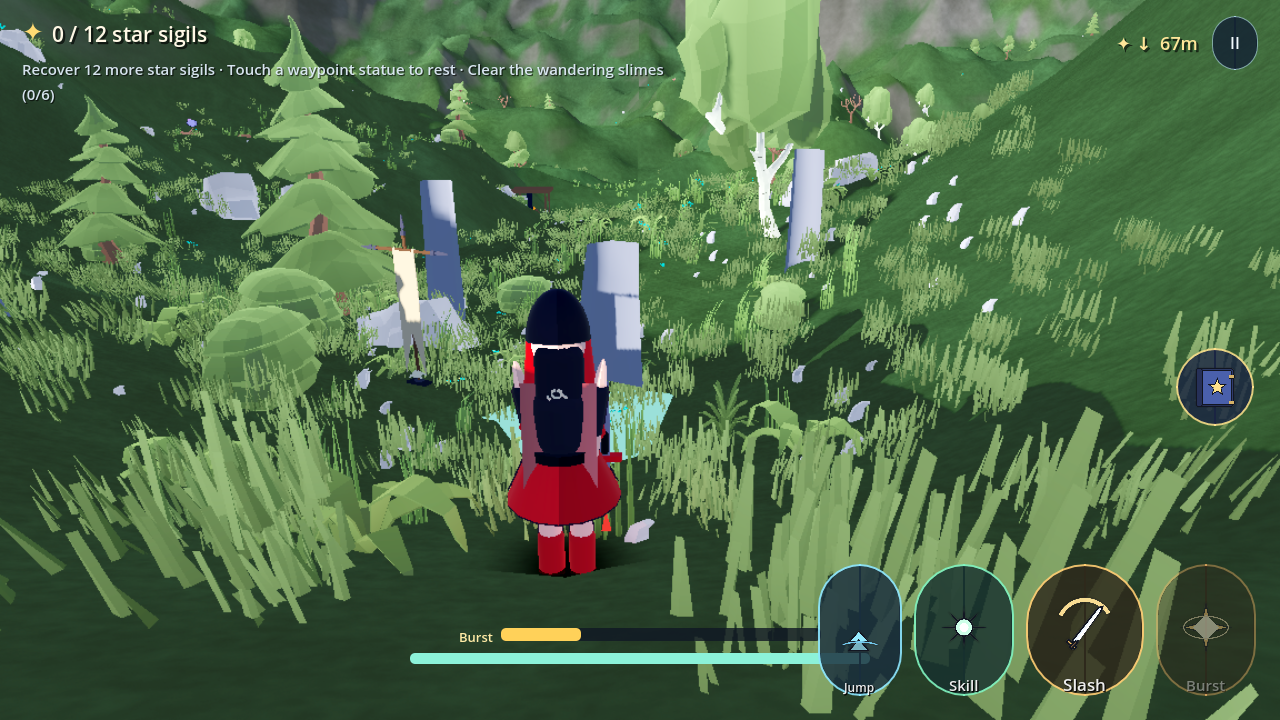
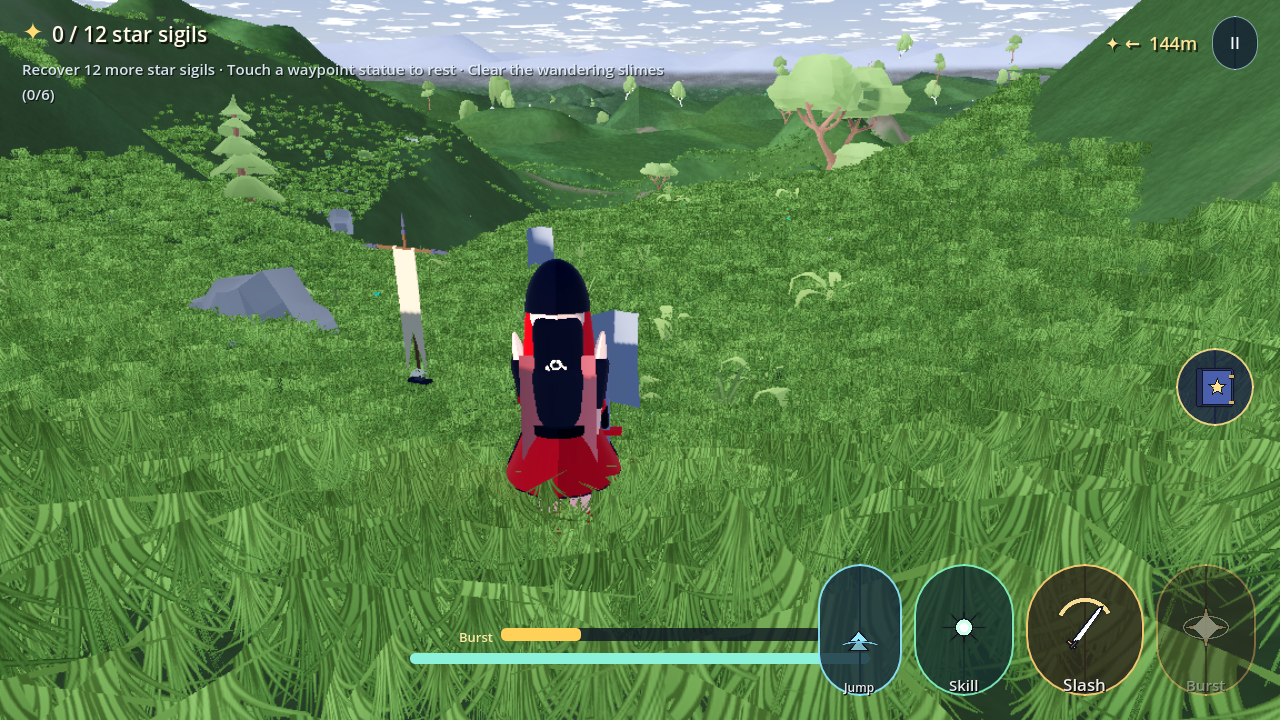
Say what the game actually is now in the README
The feature table still described a 900 m valley with a 2 600-blade wind-waved
grass carpet. It is a 10 km streamed world with a sea, a lake, a river and six
ponds, and the carpet is 95 000 painted cards with no wind in them at all. The
screenshots are the frame the probe captured after the retune.

diff --git a/README.md b/README.md
@@ -26,18 +26,19 @@ produces an installable APK on every push.
 | System | Details |
 |---|---|
 | **Renderer** | OpenGL ES 3.0 (Compatibility) — runs on every Android device since 2013, including PowerVR GPUs like the Helio P95 where the Vulkan path black-screens |
-| **Anime terrain** | 900 m procedural valley, 144² heightfield, custom `terrain_anime` shader: painterly banded meadow, slope-aware rock, wet shoreline and snow caps |
+| **Anime terrain** | A **10 km** procedural world, streamed in three layers around the player (96 m tiles at 4 m, 672 m tiles at 32 m, one coarse shell over the whole map), custom `terrain_anime` shader: painterly banded meadow, slope-aware rock, wet shoreline and snow caps. Mountains stand 2–3.2 km out; a concave collision patch follows the player instead of a shape over the map |
 | **Cel shading** | `anime_toon.gdshader` — world-space two-band ramp, cool tinted shadows, a small cool rim + inverted-hull outline pass. No specular lobe: on near-black cloth it only ever painted grey patches, so the ramp and the outline carry the form |
 | **Party of three** | Sora (Anemo, sword), Ember (Pyro, catalyst), Volt (Electro, bow). Switch instantly with **T** or the portrait row |
 | **Traversal** | Sprint with stamina, double jump, **gliding** with wind wings, plunge attack from a dive |
 | **Combat** | 3-hit melee combo, elemental skill (E) with cooldown, elemental burst (Q) that spends energy, damage numbers, hit flashes, shockwaves |
 | **Enemies** | Elemental slimes that hop at you and take **reaction multipliers** (same element resisted, opposite empowered) |
 | **Progression** | 12 star sigils to recover, waypoint statues that heal the party and set your respawn, quest tracker, victory banner |
-| **World dressing** | Lake with stylized wave shader, wind arches, glowing crystal formations, campfires, rolling clouds, 3 700+ instanced trees/rocks/flowers and a 2 600-blade swooshing grass carpet |
+| **Water** | One surface at sea level over the whole map, because a sea in the south-east, a lake, a carved river and six ponds are all the same water table. The terrain carves the beds; wherever it falls below the waterline there is water, so a coastline needs no special case |
+| **World dressing** | Scattered trees, pines, dead trees, bushes, ferns, flowers, pebbles and boulders from the Ultimate Stylized Nature Pack, batched into MultiMeshes and occluded per entity; wind arches, glowing crystal clusters, campfires and bone-cloth banners at the shrines |
 | **Day / night** | Sun angle, colour and ambient light drift over time; campfire and crystal lights carry the night |
 | **Environment (rendered)** | ![wide](docs/render_wide.png) ![gameplay](docs/render_world.png) |
 | **Character (rendered, front)** | ![front](docs/render_player.png) |
-| **Grass** | A streaming meadow over the whole valley: 26 m chunks rebuilt around the player out to 130 m, density falling off with distance (9,000 / 3,600 / 1,100 blades per chunk), ~80,000 instances at full quality. Wind-waved, per-instance colour variation, root-to-tip gradient and faked subsurface scattering |
+| **Grass** | The painted carpet is back: two crossed alpha-cut cards a tuft, **4 triangles an instance** against the 3D tuft's 64, on a jittered grid at 9.2 cards/m² near the player and thinning with distance (6 200 / 2 600 / 460 per 26 m chunk). ~95 000 cards and 0.59 M triangles for the whole meadow. **No wind** — the shader has no `TIME` in it. What it does do is not draw: behind-camera collapse, a clearing around the character, distance fade and a dissolve at the streaming edge |
 | **Mobile UI** | Touch joystick + right-side camera drag + on-screen action buttons, plus a **Quality** toggle (Balanced / Performance / High) |
 
 ### Controls
